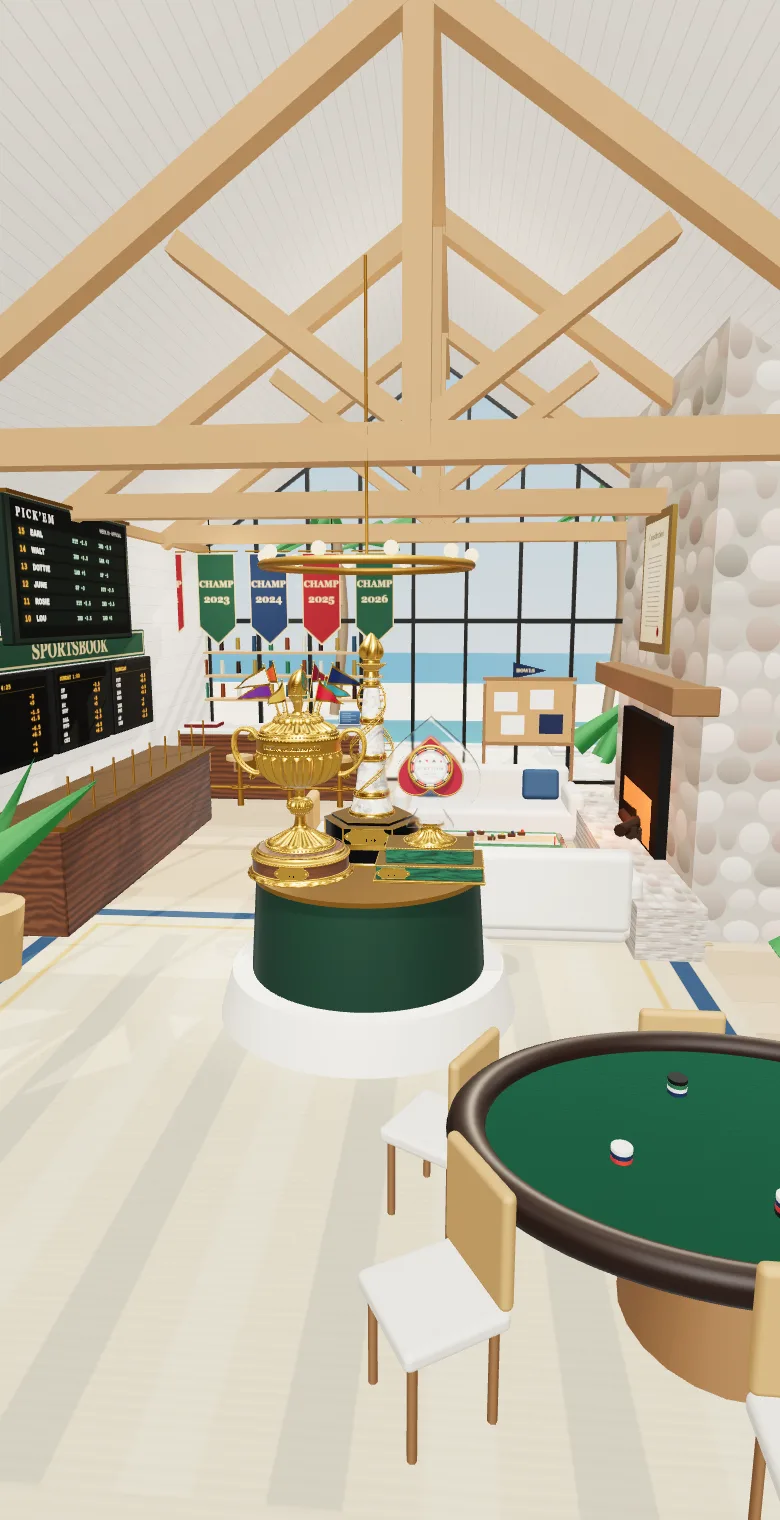
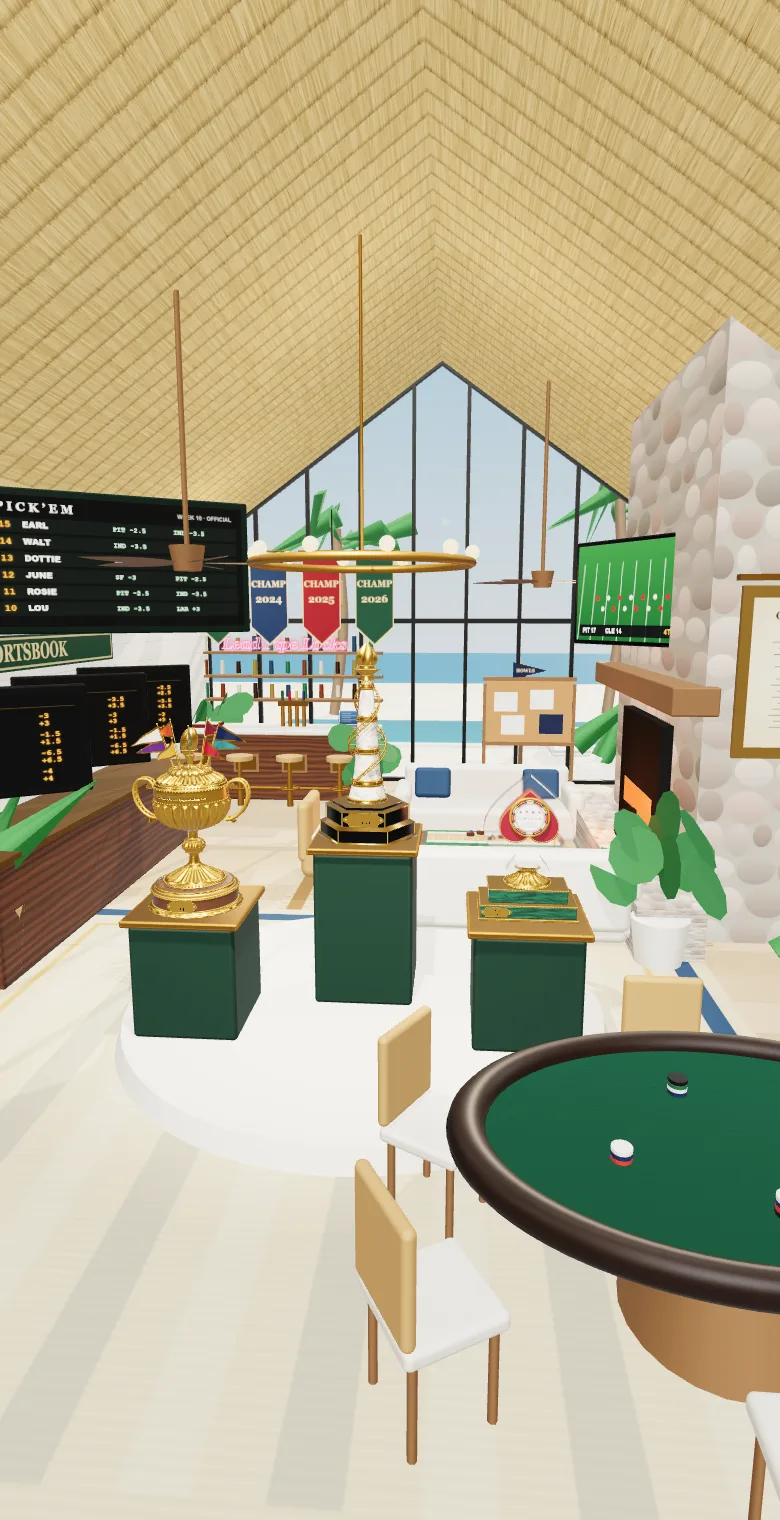
Lab clubhouse room: thatched beach-hut ceiling, leaf fans, TV, angled boards, trophies on pedestals
Poker chairs face the table; more plants, tiki torches, a neon bar sign; the bar's tap spot becomes the plaques.

diff --git a/tools/clubhouse-room/room.js b/tools/clubhouse-room/room.js
@@ -1,10 +1,10 @@
-// The clubhouse: a grand beach bungalow, seen from just inside the front, standing on the landing a few steps up. A white-washed
-// vaulted ceiling on natural timber trusses, fans turning; white shiplap walls; pale oak floors; the whole back wall glass, doors
-// opening onto the pool patio, palms and the sea beyond. The real trophies stand in the middle on a stone plinth under a chandelier.
-// The left wall is the sportsbook with the Big Board above it; the bar runs along the back left with the champions' banners hanging
-// from the rafters over it; on the right a grand floor-to-ceiling stone fireplace, the constitution framed on the chimney, the lounge
-// in front of it with the race on the coffee table; the Survivor poker table in the foreground. Units are metres: x left to right,
-// z from the front wall (0) to the back (-RD).
+// The clubhouse: a grand beach bungalow and the ultimate man cave, seen from just inside the front. A natural thatched beach-hut
+// ceiling (no beams) with wooden leaf cabana fans; white shiplap walls; pale oak floors; the whole back wall glass onto the pool
+// patio, palms, tiki torches and the sea. The real trophies stand in the middle, each on its own pedestal, under a chandelier. The
+// left wall is the sportsbook with the Big Board above it, both on brackets turned towards the room; the bar runs along the back
+// left under a neon sign, the champions' banners hanging over it; on the right a grand floor-to-ceiling stone chimney with a TV
+// over the mantel and the constitution framed on it, the lounge in front with the race on the coffee table; the Survivor poker
+// table in the foreground. Units are metres: x left to right, z from the front wall (0) to the back (-RD).
 import { THREE, RoundedBoxGeometry, materials } from "/lib.js";
 import { pennantCup } from "/trophies.js";
 import { hexBase, ivorySpire, crystalSpade, bowlBase, emeraldBase } from "/trophies2.js";
@@ -62,6 +62,39 @@ function fieldstone() {
     }
   }
   return texture(c, [0.9, 1.7]);
+}
+function thatch() {
+  const c = canvas(1024, 1024), g = c.getContext("2d");
+  g.fillStyle = "#8f6f3c"; g.fillRect(0, 0, 1024, 1024);
+  for (let row = 0; row < 12; row++) {
+    const y0 = row * 86 - 10;
+    for (let i = 0; i < 2600; i++) {
+      const x = rand() * 1024, len = 70 + rand() * 60, t = 150 + Math.floor(rand() * 70);
+      g.strokeStyle = `rgba(${t + 46}, ${t + 14}, ${t - 52}, ${0.5 + rand() * 0.45})`; g.lineWidth = 1 + rand() * 2.2;
+      g.beginPath(); g.moveTo(x, y0 + rand() * 10); g.lineTo(x + (rand() - 0.5) * 14, y0 + len); g.stroke();
+    }
+    const shade = g.createLinearGradient(0, y0 + 70, 0, y0 + 96); shade.addColorStop(0, "rgba(50, 32, 12, 0)"); shade.addColorStop(1, "rgba(50, 32, 12, .45)");
+    g.fillStyle = shade; g.fillRect(0, y0 + 70, 1024, 26);
+  }
+  return texture(c, [2, 4]);
+}
+function gameOnTv() {
+  const c = canvas(640, 360), g = c.getContext("2d");
+  const gr = g.createLinearGradient(0, 0, 0, 360); gr.addColorStop(0, "#2f7d3a"); gr.addColorStop(1, "#1f5e2a"); g.fillStyle = gr; g.fillRect(0, 0, 640, 360);
+  g.strokeStyle = "rgba(255,255,255,.75)"; g.lineWidth = 3;
+  for (let i = 0; i < 9; i++) { const x = 40 + i * 70; g.beginPath(); g.moveTo(x, 70); g.lineTo(x - 30 + i * 4, 360); g.stroke(); }
+  for (let i = 0; i < 14; i++) { g.fillStyle = i % 2 ? "#e6e6e6" : "#c8102e"; g.beginPath(); g.arc(120 + (i % 7) * 60 + (i > 6 ? 30 : 0), 200 + (i > 6 ? 40 : 0), 9, 0, Math.PI * 2); g.fill(); }
+  g.fillStyle = "rgba(10,14,20,.88)"; g.fillRect(20, 300, 600, 44);
+  g.font = "700 26px Arial"; g.fillStyle = "#fff"; g.fillText("PIT 17", 40, 331); g.fillText("CLE 14", 170, 331); g.fillStyle = "#f0b429"; g.fillText("4TH  2:41", 470, 331);
+  return texture(c);
+}
+function neon(text) {
+  const c = canvas(1024, 200), g = c.getContext("2d");
+  g.fillStyle = "rgba(0,0,0,0)"; g.fillRect(0, 0, 1024, 200);
+  g.font = "italic 700 104px Georgia, serif"; g.textAlign = "center"; g.textBaseline = "middle";
+  g.shadowColor = "#ff5fa2"; g.shadowBlur = 30; g.strokeStyle = "#ffd1e6"; g.lineWidth = 7; g.strokeText(text, 512, 104);
+  g.shadowBlur = 12; g.strokeStyle = "#fff"; g.lineWidth = 3; g.strokeText(text, 512, 104);
+  return texture(c);
 }
 function linenTex(color = "#eee8da") { const c = canvas(128, 128), g = c.getContext("2d"); g.fillStyle = color; g.fillRect(0, 0, 128, 128); for (let i = 0; i < 128; i += 2) { g.fillStyle = `rgba(0,0,0,${0.02 + rand() * 0.03})`; g.fillRect(0, i, 128, 1); g.fillRect(i, 0, 1, 128); } return texture(c, [4, 4]); }
 function jute() { const c = canvas(256, 256), g = c.getContext("2d"); g.fillStyle = "#c9b48a"; g.fillRect(0, 0, 256, 256); for (let y = 0; y < 256; y += 6) for (let x = 0; x < 256; x += 6) { g.fillStyle = `rgba(110, 85, 50, ${0.15 + rand() * 0.2})`; g.fillRect(x + ((y / 6) % 2) * 3, y, 4, 3); } g.strokeStyle = "#8a6a3e"; g.lineWidth = 10; g.strokeRect(10, 10, 236, 236); return texture(c, [1, 1]); }
@@ -139,7 +172,7 @@ export async function buildRoom(q) {
 
   const m = materials();
   const white = std(0xf7f4ec, { roughness: 0.85 });
-  const timber = std(0xb98d5e, { roughness: 0.7 });
+  const timber = std(0x7a5634, { roughness: 0.7 });
   const timberDark = std(0x8a6440, { roughness: 0.65 });
   const brass = m.brass;
   const linen = new THREE.MeshStandardMaterial({ map: linenTex(), roughness: 0.95 });
@@ -161,17 +194,24 @@ export async function buildRoom(q) {
     add(room, box(0.12, 0.14, RD), timber, [side * (RW / 2 - 0.04), WH - 0.07, -RD / 2]);             // wall plate
   }
   const slope = Math.atan2(RIDGE - WH, RW / 2), len = Math.hypot(RW / 2, RIDGE - WH);
-  const ceilTex = new THREE.MeshStandardMaterial({ map: (() => { const t = texture(shiplap(22, "#fbf9f3")); t.wrapS = t.wrapT = THREE.RepeatWrapping; t.repeat.set(6, 2); t.rotation = Math.PI / 2; return t; })(), roughness: 0.9, side: THREE.DoubleSide });
+  const ceilTex = new THREE.MeshStandardMaterial({ map: thatch(), roughness: 1, side: THREE.DoubleSide });
   for (const side of [-1, 1]) add(room, box(len, 0.08, RD), ceilTex, [side * RW / 4, (WH + RIDGE) / 2 + 0.05, -RD / 2], { rot: [0, 0, side * -slope] });
-  add(room, box(0.26, 0.32, RD), timber, [0, RIDGE - 0.12, -RD / 2]);                                  // ridge beam
-  for (const z of [-6.4, -9.6, -12.8]) {                                                   // trusses
-    add(room, box(RW, 0.26, 0.24), timber, [0, WH, z]);
-    add(room, box(0.2, RIDGE - WH, 0.22), timber, [0, (WH + RIDGE) / 2, z]);
-    for (const side of [-1, 1]) {
-      add(room, box(len, 0.24, 0.22), timber, [side * RW / 4, (WH + RIDGE) / 2 - 0.12, z], { rot: [0, 0, side * -slope] });
-      add(room, box(Math.hypot(1.6, 1.2), 0.16, 0.18), timber, [side * 0.9, WH + 0.75, z], { rot: [0, 0, side * Math.atan2(1.2, 1.6)] });
+  // a natural beach hut ceiling: nothing but thatch, no beams; a thatch fringe hangs along the top of each wall
+  for (const side of [-1, 1]) add(room, box(0.1, 0.3, RD), ceilTex, [side * (RW / 2 - 0.08), WH + 0.02, -RD / 2], { cast: false });
+  // cabana fans: a dark wooden hub and five carved wooden leaf blades, hung from the thatch
+  const leaf = new THREE.Shape(); leaf.moveTo(0, 0); leaf.bezierCurveTo(0.12, 0.12, 0.2, 0.55, 0, 0.95); leaf.bezierCurveTo(-0.2, 0.55, -0.12, 0.12, 0, 0);
+  const leafGeo = new THREE.ShapeGeometry(leaf, 16);
+  const bladeWood = std(0x6b4628, { roughness: 0.55, side: THREE.DoubleSide });
+  for (const [fx, fz] of [[-2.1, -7.6], [1.5, -12.2]]) {
+    const top = WH + (RIDGE - WH) * (1 - Math.abs(fx) / (RW / 2)), drop = top - 3.55;
+    add(room, cyl(0.025, 0.025, drop, 8), timberDark, [fx, top - drop / 2, fz]);
+    add(room, cyl(0.16, 0.12, 0.22, 20), timberDark, [fx, 3.5, fz]);
+    for (let b = 0; b < 5; b++) {
+      const a = (b / 5) * Math.PI * 2 + 0.3, arm = new THREE.Group(); arm.position.set(fx, 3.46, fz); arm.rotation.y = a; room.add(arm);
+      const blade = new THREE.Mesh(leafGeo, bladeWood); blade.rotation.set(-Math.PI / 2 + 0.12, 0, -Math.PI / 2); blade.position.set(0.1, 0, 0); blade.castShadow = true; arm.add(blade);
     }
   }
+
   // ----- the back wall: all glass. Doors below, a glazed gable above, slim black frames.
   const glass = new THREE.MeshPhysicalMaterial({ color: 0xffffff, transmission: 0.95, roughness: 0.03, thickness: 0.02, ior: 1.3, transparent: true, opacity: 0.25 });
   const frameMat = std(0x2a2a27, { roughness: 0.4, metalness: 0.4 });
@@ -206,22 +246,23 @@ export async function buildRoom(q) {
   const skyPlane = new THREE.Mesh(new THREE.PlaneGeometry(140, 60), new THREE.MeshBasicMaterial({ map: sky(night) }));
   skyPlane.position.set(0, 26, ZB - 58); scene.add(skyPlane);
 
-  // ----- the left wall: the sportsbook (odds boards, a SPORTSBOOK sign, a ticket counter) with the Big Board above it
+  // ----- the left wall: the sportsbook (odds boards, a SPORTSBOOK sign, a ticket counter) with the Big Board above it. The boards
+  // stand out from the wall on brackets, turned towards the room so they read from where you stand.
   const book = group("sportsbook");
-  const SZ = -9.6;
+  const SZ = -8.5, TURN = 0.62;
+  const angled = (parent, w, h, y, z, faceMap, glowLevel, housing = 0x111110) => {
+    const g = new THREE.Group(); g.position.set(X0 + 0.14 + (w / 2) * Math.cos(TURN), y, z); g.rotation.y = TURN; parent.add(g);
+    add(g, rbox(w + 0.14, h + 0.14, 0.1, 0.02), std(housing, { roughness: 0.5 }), [0, 0, -0.05]);
+    add(g, new THREE.PlaneGeometry(w, h), new THREE.MeshStandardMaterial({ map: faceMap, emissive: 0xffffff, emissiveMap: faceMap, emissiveIntensity: glowLevel }), [0, 0, 0.005], { cast: false });
+    add(parent, box(0.5, 0.05, 0.05), timberDark, [X0 + 0.25, y + h / 2 - 0.1, z]);
+    return g;
+  };
   add(book, new THREE.PlaneGeometry(4.4, 0.36), new THREE.MeshStandardMaterial({ map: sign("SPORTSBOOK", { w: 1536, h: 130, font: "700 88px Georgia, serif" }), roughness: 0.5 }), [X0 + 0.03, 2.62, SZ], { cast: false, rot: [0, Math.PI / 2, 0] });
-  [-1, 0, 1].forEach((k) => {
-    const z = SZ + k * 1.5;
-    add(book, rbox(0.1, 0.95, 1.38, 0.02), std(0x111110, { roughness: 0.5 }), [X0 + 0.07, 1.95, z]);
-    add(book, new THREE.PlaneGeometry(1.26, 0.84), new THREE.MeshStandardMaterial({ map: oddsBoard(k + 1), emissive: 0xffffff, emissiveMap: oddsBoard(k + 1), emissiveIntensity: night ? 1.0 : 0.65 }), [X0 + 0.125, 1.95, z], { cast: false, rot: [0, Math.PI / 2, 0] });
-  });
+  [-1, 0, 1].forEach((k) => angled(book, 1.2, 0.84, 1.9, SZ + k * 1.45, oddsBoard(k + 1), night ? 1.0 : 0.7));
   add(book, rbox(0.8, 1.05, 4.6, 0.03), m.walnut, [X0 + 0.5, 0.525, SZ]);
   add(book, box(0.9, 0.05, 4.7), brass, [X0 + 0.52, 1.07, SZ]);
-  for (let i = 0; i < 9; i++) add(book, cyl(0.012, 0.012, 0.42, 8), brass, [X0 + 0.88, 1.3, SZ - 2.1 + i * 0.52]);
   const board = group("board");
-  add(board, rbox(0.14, 1.5, 3.0, 0.03), std(0x12281e, { roughness: 0.5 }), [X0 + 0.08, 3.45, SZ]);
-  add(board, new THREE.PlaneGeometry(2.8, 1.36), new THREE.MeshStandardMaterial({ map: bigBoardFace(), emissive: 0xffffff, emissiveMap: bigBoardFace(), emissiveIntensity: night ? 0.95 : 0.55 }), [X0 + 0.16, 3.45, SZ], { cast: false, rot: [0, Math.PI / 2, 0] });
-  add(board, box(0.06, 0.04, 3.0), brass, [X0 + 0.16, 4.18, SZ]);
+  angled(board, 2.5, 1.22, 3.5, SZ, bigBoardFace(), night ? 1.0 : 0.62, 0x12281e);
 
   // ----- the bar along the back wall, left of the doors: counter, back bar, stools; banners hang from the rafters above it
   const bar = group("bar");
@@ -240,6 +281,10 @@ export async function buildRoom(q) {
   for (let s = 0; s < 3; s++) add(bar, box(BL, 0.04, 0.3), timber, [BX, 1.5 + s * 0.42, ZB + 0.22]);
   const bottleColors = [0x2f6a4c, 0x7a3a12, 0xd8d0b8, 0x3a1d0c, 0x9a7a2a, 0x24435e];
   for (let s = 0; s < 3; s++) for (let i = 0; i < 11; i++) add(bar, cyl(0.035, 0.04, 0.27 - (i % 3) * 0.03, 10), new THREE.MeshPhysicalMaterial({ color: bottleColors[(i + s) % 6], roughness: 0.1, transmission: 0.3, thickness: 0.1 }), [BX - BL / 2 + 0.2 + i * 0.3, 1.66 + s * 0.42, ZB + 0.22], { cast: false });
+  const sign2 = add(bar, new THREE.PlaneGeometry(2.6, 0.5), new THREE.MeshBasicMaterial({ map: neon("Lead Pipe Locks"), transparent: true, toneMapped: false }), [BX, 2.5, ZB + 0.5], { cast: false });
+  sign2.renderOrder = 2;
+  add(bar, box(0.5, 0.08, 0.08), brass, [BX + 0.3, 1.55, BZ - 0.1]);
+  for (let i = 0; i < 4; i++) { add(bar, cyl(0.03, 0.03, 0.4, 10), brass, [BX + 0.12 + i * 0.12, 1.36, BZ - 0.1]); add(bar, rbox(0.04, 0.16, 0.04, 0.01), std([0x1f4a36, 0x8c1e24, 0xc9a45f, 0x1d3557][i]), [BX + 0.12 + i * 0.12, 1.68, BZ - 0.1]); }
   const record = group("record");
   add(record, rbox(0.56, 0.05, 0.42, 0.01), std(0x6b1f1a, { roughness: 0.5 }), [BX - 1.2, 1.19, BZ]);
   add(record, new THREE.PlaneGeometry(0.52, 0.38), new THREE.MeshStandardMaterial({ map: bookPages(), roughness: 0.9 }), [BX - 1.2, 1.22, BZ], { cast: false, rot: [-Math.PI / 2, 0, 0] });
@@ -275,10 +320,16 @@ export async function buildRoom(q) {
   for (let i = 0; i < 3; i++) add(fire, cyl(0.07, 0.07, 1.0, 8), std(0x3a2414), [X1 - CD - 0.12, 0.6 + i * 0.05, FZ - 0.15 + i * 0.15], { rot: [Math.PI / 2, 0, 0.3 * i] });
   add(fire, rbox(0.42, 0.26, 4.0, 0.02), timberDark, [X1 - CD - 0.1, 2.25, FZ]);                                     // timber mantel beam
   const flame = new THREE.PointLight(0xff8a3a, night ? 9 : 3.5, 7, 1.5); flame.position.set(X1 - CD - 0.7, 0.9, FZ); fire.add(flame);
+  const tv = group("tv");
+  const tvMount = new THREE.Group(); tvMount.position.set(X1 - CD - 0.25, 3.25, FZ + 0.1); tvMount.rotation.y = -Math.PI / 2 + 0.55; tv.add(tvMount);
+  add(tvMount, rbox(2.0, 1.16, 0.06, 0.02), std(0x0c0c0d, { roughness: 0.3, metalness: 0.3 }), [0, 0, 0]);
+  add(tvMount, new THREE.PlaneGeometry(1.9, 1.07), new THREE.MeshStandardMaterial({ map: gameOnTv(), emissive: 0xffffff, emissiveMap: gameOnTv(), emissiveIntensity: night ? 1.0 : 0.8 }), [0, 0, 0.032], { cast: false });
+  add(tv, box(0.28, 0.06, 0.06), frameMat, [X1 - CD - 0.12, 3.25, FZ]);
   const charter = group("constitution");
-  add(charter, box(0.06, 1.5, 1.2), std(0xa8823a, { metalness: 0.6, roughness: 0.35 }), [X1 - CD - 0.02, 3.35, FZ]);
-  add(charter, new THREE.PlaneGeometry(1.02, 1.3), new THREE.MeshStandardMaterial({ map: parchment(), roughness: 0.9 }), [X1 - CD - 0.06, 3.35, FZ], { cast: false, rot: [0, -Math.PI / 2, 0] });
-  // the lounge: a jute rug, two linen sofas facing each other across the coffee table, a rattan armchair facing the fire
+  add(charter, box(1.2, 1.5, 0.06), std(0xa8823a, { metalness: 0.6, roughness: 0.35 }), [X1 - CD / 2, 2.5, FZ + 1.92]);
+  add(charter, new THREE.PlaneGeometry(1.02, 1.3), new THREE.MeshStandardMaterial({ map: parchment(), roughness: 0.9 }), [X1 - CD / 2, 2.5, FZ + 1.96], { cast: false });
+  add(charter, box(1.3, 0.05, 0.12), brass, [X1 - CD / 2, 3.32, FZ + 1.94]);
+    // the lounge: a jute rug, two linen sofas facing each other across the coffee table, a rattan armchair facing the fire
   add(room, box(4.2, 0.012, 4.0), new THREE.MeshStandardMaterial({ map: jute(), roughness: 1 }), [0.6, 0.006, FZ], { cast: false });
   const sofa = (x, z, facing) => {
     const s = new THREE.Group(); s.position.set(x, 0, z); s.rotation.y = facing; scene.add(s);
@@ -302,29 +353,34 @@ export async function buildRoom(q) {
     add(race, rbox(0.09, 0.045, 0.035, 0.012), std(0x5a3216), [x, 0.46, z]); add(race, rbox(0.03, 0.03, 0.026, 0.008), std(c), [x + 0.01, 0.495, z]);
   });
 
-  // ----- the trophies: the real three on a round stone plinth in the middle of the room, under a brass chandelier
+  // ----- the trophies: the real three, each on its own pedestal with room to breathe, the Pick'em highest in the middle, on a low
+  // round stone dais under a brass chandelier
   const trophies = group("trophies");
-  const TX = -0.35, TZ = -6.3;
-  add(trophies, cyl(1.05, 1.15, 0.35, 64), std(0xece6d8, { roughness: 0.4 }), [TX, 0.175, TZ]);
-  add(trophies, cyl(0.85, 0.9, 0.75, 64), std(0x1f3b2f, { roughness: 0.45 }), [TX, 0.72, TZ]);
-  add(trophies, cyl(0.88, 0.88, 0.035, 64), brass, [TX, 1.1, TZ]);
-  const pieces = [[ivorySpire, hexBase, { fin: "coil", material: "white" }, [0, -0.28]], [pennantCup, bowlBase, { material: "white" }, [-0.48, 0.22]], [crystalSpade, emeraldBase, { material: "white" }, [0.48, 0.22]]].map(([build, base, opts, at]) => {
-    const piece = new THREE.Group(); const b = base(m); piece.add(b); const t = build(m, opts); t.position.y = b.userData.height; piece.add(t); return { piece, at };
+  const TX = -0.35, TZ = -6.0;
+  add(room, cyl(1.75, 1.8, 0.16, 64), std(0xece6d8, { roughness: 0.4 }), [TX, 0.08, TZ]);
+  const pedestals = [[0, -0.25, 1.15], [-1.15, 0.35, 0.8], [1.15, 0.35, 0.8]];
+  for (const [dx, dz, h] of pedestals) {
+    add(trophies, rbox(0.72, h, 0.72, 0.03), std(0x1f3b2f, { roughness: 0.45 }), [TX + dx, 0.16 + h / 2, TZ + dz]);
+    add(trophies, rbox(0.8, 0.05, 0.8, 0.015), brass, [TX + dx, 0.16 + h + 0.025, TZ + dz]);
+  }
+  const pieces = [[ivorySpire, hexBase, { fin: "coil", material: "white" }, 0], [pennantCup, bowlBase, { material: "white" }, 1], [crystalSpade, emeraldBase, { material: "white" }, 2]].map(([build, base, opts, k]) => {
+    const piece = new THREE.Group(); const b = base(m); piece.add(b); const t = build(m, opts); t.position.y = b.userData.height; piece.add(t); return { piece, k };
   });
   const tallest = Math.max(...pieces.map(({ piece }) => new THREE.Box3().setFromObject(piece).getSize(new THREE.Vector3()).y));
-  const ts = 1.75 / tallest;
-  for (const { piece, at: [dx, dz] } of pieces) {
+  const ts = 1.45 / tallest;
+  for (const { piece, k } of pieces) {
+    const [dx, dz, h] = pedestals[k];
     piece.scale.setScalar(ts);
     const pb = new THREE.Box3().setFromObject(piece);
-    piece.position.set(TX + dx, 1.12 - pb.min.y, TZ + dz);
+    piece.position.set(TX + dx, 0.16 + h + 0.05 - pb.min.y, TZ + dz);
     piece.traverse((o) => { if (o.isMesh) { o.castShadow = true; o.receiveShadow = true; } });
     trophies.add(piece);
   }
   add(room, cyl(0.012, 0.012, 2.0, 6), brass, [TX, WH + 0.2, TZ]);
   add(room, new THREE.TorusGeometry(0.75, 0.03, 10, 48), brass, [TX, WH - 0.85, TZ], { rot: [Math.PI / 2, 0, 0], cast: false });
   for (let k = 0; k < 10; k++) { const a = (k / 10) * Math.PI * 2; add(room, new THREE.SphereGeometry(0.05, 12, 8), glow(0xffe0a8, night ? 4 : 2), [TX + Math.cos(a) * 0.75, WH - 0.78, TZ + Math.sin(a) * 0.75], { cast: false }); }
-  const trophySpot = new THREE.SpotLight(0xfff4de, night ? 70 : 45, 9, 0.38, 0.6, 1.3);
-  trophySpot.position.set(TX, WH + 1.6, TZ + 2.2); trophySpot.target.position.set(TX, 1.8, TZ); trophySpot.castShadow = true; trophySpot.shadow.mapSize.set(2048, 2048);
+  const trophySpot = new THREE.SpotLight(0xfff4de, night ? 80 : 55, 10, 0.5, 0.6, 1.3);
+  trophySpot.position.set(TX, WH + 1.6, TZ + 2.4); trophySpot.target.position.set(TX, 1.5, TZ); trophySpot.castShadow = true; trophySpot.shadow.mapSize.set(2048, 2048);
   scene.add(trophySpot, trophySpot.target);
 
   add(room, box(6.2, 0.012, 6.4), new THREE.MeshStandardMaterial({ map: (() => { const c = canvas(512, 512), g = c.getContext('2d'); g.fillStyle = '#d6c6a2'; g.fillRect(0, 0, 512, 512); for (let k = 0; k < 9; k++) { g.fillStyle = k % 2 ? 'rgba(47,79,110,.18)' : 'rgba(255,255,255,.12)'; g.fillRect(60 + k * 44, 60, 22, 392); } g.strokeStyle = '#2f4f6e'; g.lineWidth = 14; g.strokeRect(18, 18, 476, 476); g.strokeStyle = '#c9a45f'; g.lineWidth = 5; g.strokeRect(44, 44, 424, 424); for (let i = 0; i < 512; i += 4) { g.fillStyle = `rgba(120,100,70,${0.03 + rand() * 0.04})`; g.fillRect(0, i, 512, 2); } return texture(c); })(), roughness: 1 }), [-0.6, 0.007, -5.0], { cast: false });
@@ -342,7 +398,7 @@ export async function buildRoom(q) {
   });
   for (let a = 0; a < 6; a++) {
     const t = (a / 6) * Math.PI * 2 + Math.PI / 6, cx = PX + Math.cos(t) * 1.45, cz = PZ + Math.sin(t) * 1.05;
-    const c = new THREE.Group(); c.position.set(cx, 0, cz); c.rotation.y = -t - Math.PI / 2; poker.add(c);
+    const c = new THREE.Group(); c.position.set(cx, 0, cz); c.rotation.y = Math.PI / 2 - t; poker.add(c);
     add(c, rbox(0.44, 0.08, 0.44, 0.03), linen, [0, 0.46, 0]); add(c, rbox(0.44, 0.48, 0.06, 0.03), rattan, [0, 0.74, 0.2]);
     for (const [lx, lz] of [[-0.17, -0.17], [0.17, -0.17], [-0.17, 0.17], [0.17, 0.17]]) add(c, cyl(0.02, 0.02, 0.44, 8), timberDark, [lx, 0.22, lz]);
   }
@@ -352,7 +408,19 @@ export async function buildRoom(q) {
     add(room, cyl(0.3 * s, 0.24 * s, 0.5 * s, 20), rattan, [x, 0.25 * s, z]);
     for (let f = 0; f < 8; f++) { const a = (f / 8) * Math.PI * 2, fr = add(room, new THREE.ConeGeometry(0.16 * s, 1.3 * s, 4, 1), std(0x3f8a48, { roughness: 0.9 }), [x + Math.cos(a) * 0.4 * s, 1.0 * s, z + Math.sin(a) * 0.4 * s]); fr.scale.set(1, 1, 0.25); fr.rotation.set(Math.sin(a) * 0.9, -a, -Math.cos(a) * 0.9); }
   };
+  const monstera = (x, z, s = 1) => {
+    add(room, cyl(0.28 * s, 0.22 * s, 0.46 * s, 20), std(0xf1ece2, { roughness: 0.6 }), [x, 0.23 * s, z]);
+    for (let f = 0; f < 9; f++) { const a = (f / 9) * Math.PI * 2 + rand(), r = 0.25 + rand() * 0.25, lf = add(room, new THREE.CircleGeometry(0.26 * s, 10), std(0x2f6f3a, { roughness: 0.8, side: THREE.DoubleSide }), [x + Math.cos(a) * r * s, (0.75 + rand() * 0.6) * s, z + Math.sin(a) * r * s], { cast: true }); lf.scale.set(1, 1.4, 1); lf.rotation.set(-0.9 - rand() * 0.4, a, 0); }
+  };
   plant(X1 - 0.6, ZB + 0.8, 1.4); plant(X1 - 0.6, -5.6, 1.2); plant(X0 + 0.55, -6.5, 1.2);
+  monstera(-4.0, ZB + 0.7, 1.1); monstera(2.1, -7.2, 0.9); monstera(-1.0, -12.4, 0.9);
+  add(room, rbox(0.55, 2.4, 0.08, 0.04), std(0x3f8fb0, { roughness: 0.35 }), [X1 - 0.35, 1.22, ZB + 2.2], { rot: [0, -0.4, -0.12] });
+  for (const [x, z] of [[-4.6, ZB - 1.2], [-1.6, ZB - 1.4], [1.6, ZB - 1.4], [4.6, ZB - 1.2]]) {
+    add(out, cyl(0.03, 0.04, 1.8, 8), std(0x6b4a2a), [x, 0.9, z]);
+    add(out, cyl(0.07, 0.05, 0.18, 10), std(0x2a2a2a), [x, 1.85, z]);
+    add(out, new THREE.ConeGeometry(0.06, 0.22, 10), glow(0xff8a2a, night ? 3 : 1.2), [x, 2.04, z], { cast: false });
+    if (night) { const l = new THREE.PointLight(0xff9a40, 2.5, 4, 1.6); l.position.set(x, 2.1, z); out.add(l); }
+  }
   if (bowl) {
     const b2 = group("bowl");
     const BBX = 1.5, BBZ = ZB + 1.3;

diff --git a/src/components/lab/lab-clubhouse.tsx b/src/components/lab/lab-clubhouse.tsx
@@ -12,9 +12,9 @@ import ROOM_PICTURES from "@/lib/lab-clubhouse-room.json";
 /**
  * Lab try-out: the whole pool as one clubhouse, with the sample league only. Built for a phone first.
  *  - The room: a grand beach bungalow drawn in 3D and shown as one picture (by day, and at night with the pool lit), seen from just
- *    inside: a vaulted white ceiling on timber trusses, the whole back wall glass onto the pool patio and the sea. Tap anything in it
- *    to go there: the sportsbook down the left wall (where picks are made) with the Big Board above it, the real trophies in the
- *    middle on a stone plinth under a chandelier, the bar at the back with the banners hanging from the rafters and the plaques on
+ *    inside: a thatched beach-hut ceiling with wooden leaf fans, the whole back wall glass onto the pool patio and the sea. Tap anything in it
+ *    to go there: the sportsbook down the left wall (where picks are made) with the Big Board above it, both turned towards you,
+ *    the real trophies in the middle, each on its own pedestal under a chandelier, the bar at the back with the banners hanging from the rafters and the plaques on
  *    its front, the record book and the laptop (the pool chat, a mail sign when there's a new message) on the bar, the constitution
  *    framed on the grand stone chimney, the race on the coffee table, the Survivor poker table in front, and from Dec 7 the Bowl
  *    Pool's bulletin board, wheeled in by the doors.
@@ -143,16 +143,17 @@ const PICTURES = ROOM_PICTURES as Record<string, Picture>;
 
 /** Each thing in the picture that can be tapped: where it goes, its name, and whether its label shows without "Show labels". */
 const SPOTS: ReadonlyArray<{ spot: string; room: Room; name: string; tag?: string; label?: "above" | "below"; always?: boolean }> = [
-  { spot: "sportsbook", room: "window", name: "Sportsbook", label: "below", always: true },
-  { spot: "bar", room: "trophies", name: "The bar: banners and plaques", tag: "The bar", label: "below" },
-  { spot: "banners", room: "trophies", name: "Banners" },
+  // The trophies come first so the smaller things standing in front of them stay on top.
   { spot: "trophies", room: "trophies", name: "Trophies", label: "above" },
+  { spot: "sportsbook", room: "window", name: "Sportsbook", label: "below", always: true },
+  { spot: "banners", room: "trophies", name: "Banners", label: "above" },
+  { spot: "plaques", room: "trophies", name: "Plaques" },
   { spot: "board", room: "board", name: "The Big Board", label: "below", always: true },
   { spot: "bowl", room: "bowl", name: "Bowl Pool", label: "above", always: true },
-  { spot: "record", room: "record", name: "Record book", label: "above" },
-  { spot: "chat", room: "chat", name: "Pool chat", tag: "Chat", label: "below" },
+  { spot: "record", room: "record", name: "Record book", label: "below" },
+  { spot: "chat", room: "chat", name: "Pool chat", tag: "Chat", label: "above" },
   { spot: "constitution", room: "constitution", name: "Constitution", label: "below" },
-  { spot: "race", room: "race", name: "The race", label: "below" },
+  { spot: "race", room: "race", name: "The race", label: "above" },
   { spot: "survivor", room: "survivor", name: "Survivor", label: "above", always: true },
 ];
 

diff --git a/test/visual/lab.visual.spec.ts b/test/visual/lab.visual.spec.ts
@@ -307,7 +307,7 @@ test("the clubhouse room: everything in it opens its room in one tap, every spot
   expect((await room.boundingBox())!.width).toBeLessThanOrEqual(390);
   const spots: Array<[string, string, string]> = [
     ["Sportsbook", "The Window", ".lab-window"], ["The Big Board", "The Big Board", ".lab-tote"], ["Trophies", "Trophy Room", ".lab-wall"],
-    ["The bar: banners and plaques", "Trophy Room", ".lab-wall"], ["Banners", "Trophy Room", ".lab-wall"], ["Survivor", "Survivor", ".lab-survivor-room"],
+    ["Banners", "Trophy Room", ".lab-wall"], ["Plaques", "Trophy Room", ".lab-wall"], ["Survivor", "Survivor", ".lab-survivor-room"],
     ["Record book", "Record book", ".lab-stand-in"], ["Pool chat", "Pool chat", ".lab-stand-in"], ["Constitution", "Constitution", ".lab-stand-in"],
     ["The race", "The race", ".lab-stand-in"],
   ];
@@ -322,8 +322,7 @@ test("the clubhouse room: everything in it opens its room in one tap, every spot
     expect(Math.min(box.width, box.height)).toBeGreaterThanOrEqual(44);
   }
   for (const [spot, heading, inside] of spots) {
-    // The bar is tapped on its counter, clear of the record book and the laptop that stand on it.
-    await room.getByRole("button", { name: spot, exact: true }).click(spot.startsWith("The bar") ? { position: { x: 10, y: 10 } } : {});
+    await room.getByRole("button", { name: spot, exact: true }).click();
     await expect(page.getByRole("heading", { name: heading, level: 3, exact: true })).toBeVisible();
     await expect(page.locator(inside)).toBeVisible();
     await expect(room).toHaveCount(0);

diff --git a/docs/VIEW_STATES.md b/docs/VIEW_STATES.md
@@ -157,7 +157,7 @@ Shot as the chat element alone, at phone 390 and desktop 1280, day and night. Fo
 | "Notifications on this phone" on Notifications (every player): `off`, `on`, `blocked`, `iphone-tab` (an iPhone browser tab, told to add the app to the Home Screen) and `no-support`, day at phone and desktop width, plus `on` at night; behavior tests follow the taps (turn on: permission, key, save; test; turn off) and show the section to a player who is not the Commissioner too (`phone-notifications.visual.spec.ts`) | `/profile` |
 | In-app "Turn on notifications" banner (Home Screen app, signed in, notifications not on yet): `offer` day at phone and desktop, night at phone, and `on` after one tap; behavior tests: one tap asks the phone and saves it, a "no" says where to turn them on later, Not now keeps it away after reopening, and no banner in a browser tab, when already on, when blocked, on Notifications, or before sign-in (`notifications-banner.visual.spec.ts`) | any page in the app |
 | Workshop Lab (`/admin/workshop/lab`, Commissioner only): the Showroom and Lab tabs (Lab green), one line "Try-outs before they reach players. Nothing here changes the pool.", a shelf of try-out chips (Tote board, Pad skins, Clubhouse, Survivor table, Feel test; the choice kept in `?try=` and on this device), then the chosen try-out (shot here with the Feel test); the whole page, phone and desktop, day and night (`workshop.visual.spec.ts`); a player sees only "Commissioner only." and the tabs, and the Showroom and Lab tabs lead to each other (`haptic-feel-test.visual.spec.ts`) | `/admin/workshop/lab` as the Commissioner |
-| Lab try-out, Clubhouse: the whole pool as one grand beach bungalow, phone first, sample league only. **The room** is a 3D picture (rendered by `tools/clubhouse-room`; by day, and at night with the pool lit) seen from just inside: a vaulted white ceiling on timber trusses, the whole back wall glass onto the pool patio, palms and the sea; the sportsbook down the left wall with the Big Board above it, the real trophies in the middle on a stone plinth under a brass chandelier, the bar at the back (banners hanging from the rafters, plaques on its front, the record book and the laptop on top), a grand stone chimney on the right with the constitution framed on it and the lounge in front (the race on the coffee table), the Survivor poker table in front, and from Dec 7 the Bowl Pool's bulletin board on wheels by the doors. A tap spot (never smaller than 44px) lies over each: the sportsbook opens the Window, the Big Board the Big Board, the trophies, bar and banners the Trophy Room, the poker table the Survivor table; the record book, laptop (pool chat), constitution, race and Bowl Pool board open stand-ins for now. Only the sportsbook, the Big Board and Survivor (and the Bowl Pool board) carry a label with a line of news; "Show labels" names everything. The laptop shows a mail sign when there's a new message; the sportsbook glows while a pick is owed. Under the picture, the rooms as a plain list. **Your ticket** is pinned to the bottom of every clubhouse screen but the Window: a lamp per pick (lit once it is in) and the next deadline; it opens the Window. Every room has one "Back to Clubhouse" button and its name at the top. **Trophy Room:** one tall wall to scroll, top to bottom: the real banners for the pool chosen, the real trophies on a mantle, a quiet engraved brass plaque per season, the season countdown plate, and A champion is crowned. Pictures: the room (as it opens, with labels, from Dec 7, all picks in with nothing new), the Big Board, the Window and the Trophy Room's two scenes, phone and desktop by day, phone at night; behaviour tests: every spot opens its room and comes back, spots are thumb-sized, the labels, mail sign, Bowl Pool board and room list, the pinned ticket; the banners follow the pool chosen, the wall runs top to bottom, the plaques and pennant (`lab.visual.spec.ts`); data rules in `test/lab-clubhouse.test.mjs` | `/admin/workshop/lab?try=clubhouse` |
+| Lab try-out, Clubhouse: the whole pool as one grand beach bungalow, phone first, sample league only. **The room** is a 3D picture (rendered by `tools/clubhouse-room`; by day, and at night with the pool lit) seen from just inside: a thatched beach-hut ceiling (no beams) with wooden leaf cabana fans, the whole back wall glass onto the pool patio, palms and the sea; the sportsbook down the left wall with the Big Board above it (both on brackets, turned towards the viewer), the real trophies in the middle, each on its own pedestal on a stone dais under a brass chandelier, the bar at the back (banners hanging from the rafters, plaques on its front, the record book and the laptop on top), a grand stone chimney on the right with a TV over the mantel (a game on) and the constitution framed on it, and the lounge in front (the race on the coffee table), the Survivor poker table in front, and from Dec 7 the Bowl Pool's bulletin board on wheels by the doors. A tap spot (never smaller than 44px) lies over each: the sportsbook opens the Window, the Big Board the Big Board, the trophies, banners and plaques the Trophy Room, the poker table the Survivor table; the record book, laptop (pool chat), constitution, race and Bowl Pool board open stand-ins for now. Only the sportsbook, the Big Board and Survivor (and the Bowl Pool board) carry a label with a line of news; "Show labels" names everything. The laptop shows a mail sign when there's a new message; the sportsbook glows while a pick is owed. Under the picture, the rooms as a plain list. **Your ticket** is pinned to the bottom of every clubhouse screen but the Window: a lamp per pick (lit once it is in) and the next deadline; it opens the Window. Every room has one "Back to Clubhouse" button and its name at the top. **Trophy Room:** one tall wall to scroll, top to bottom: the real banners for the pool chosen, the real trophies on a mantle, a quiet engraved brass plaque per season, the season countdown plate, and A champion is crowned. Pictures: the room (as it opens, with labels, from Dec 7, all picks in with nothing new), the Big Board, the Window and the Trophy Room's two scenes, phone and desktop by day, phone at night; behaviour tests: every spot opens its room and comes back, spots are thumb-sized, the labels, mail sign, Bowl Pool board and room list, the pinned ticket; the banners follow the pool chosen, the wall runs top to bottom, the plaques and pennant (`lab.visual.spec.ts`); data rules in `test/lab-clubhouse.test.mjs` | `/admin/workshop/lab?try=clubhouse` |
 | Lab Lamp-lit switch (on the shelf, remembered on this device): at night the try-outs sit under one warm lamp (a pool of light from above with no visible edge, shadow around it, one warm paper tone, a glow on the felt and the clubhouse rooms); by day it only shows a note that it is a night look; Survivor table, Clubhouse and Pad skins, night, phone and desktop (`lab.visual.spec.ts`) | `/admin/workshop/lab` with Lamp-lit on |
 | Lab try-out, Survivor table (rebuilt to show everything the Survivor list shows): a week stepper (weeks 1 to 12, then Playoffs) and Before kickoff / Game day / Graded. The felt: AFC and NFC (side by side on a computer, stacked on a phone), each with its four divisions in the same order (East, North, South, West) and the division names in one column, so rows line up straight across; this week's chips (players' initials) on the teams taken; a losing box swept once graded; "6 of 10 alive"; a one-line key. Before kickoff another player's chip is face down on their seat, never on a team, and a player who has not picked shows NO PICK YET. Seats in standings order, dark once out with "OUT · WK n · TEAM"; the champion's seat crowned in week 12 ("Earl wins Survivor"); in the playoffs the felt is cleared. Tap a seat for every team used. List shows today's Survivor list from the same data. Pictures: week 7 Graded / Before kickoff / Game day, week 3, week 12 champion, playoffs (phone and desktop by day, phone at night) and the seat sheet; behaviour tests for every fact against the list, the champion and playoffs, and the divisions lining up (`lab.visual.spec.ts`) | `/admin/workshop/lab?try=survivor` |
 | Lab try-out, Tote board (first on the shelf): the clubhouse's two main pieces in the racetrack board's housing. **The Big Board** is everyone's picks in one place: today's Pad columns (wins, player, Pick 1, Pick 2; no place) plus a Survivor column of the real poker chips (face down until kickoff, greyed after a loss); each pick panel is team, line and a fixed lamp slot, so every W and L in a column shares one centre line; a pick made but not shown yet is dark lamps and a green IN. One tap on the board turns it to **Season standings** (POS with level players sharing a place, "T2"; player; wins; BACK from the leader): the standings fold into the board. Before kickoff / Game day / Graded. **The Window** is every pick a player makes, in one place: the week's games (two against the spread, a pick framed by a single gilt line), then Survivor's chips on a rack (used teams greyed "USED WK n", kicked-off games locked, one chip at a time), then one ticket (Pick 1, Pick 2, Survivor) and one Submit ("Submitted ✓"; a change afterwards asks to "Submit changes"). Picking / Game day / Out of Survivor (Survivor stays while the pool goes on, read only: "lost in week n", how many are still in) / Survivor decided (Survivor leaves the Window). Pictures: the Big Board before kickoff, on game day, graded and on its season face; the Window in each moment (phone and desktop by day, phone at night); behaviour tests: today's columns, hidden picks and Survivor chips until kickoff, W and L on one centre line, the season face, and the Window's picks, chip, ticket and Submit through every moment (`lab.visual.spec.ts`) | `/admin/workshop/lab?try=tote` |
